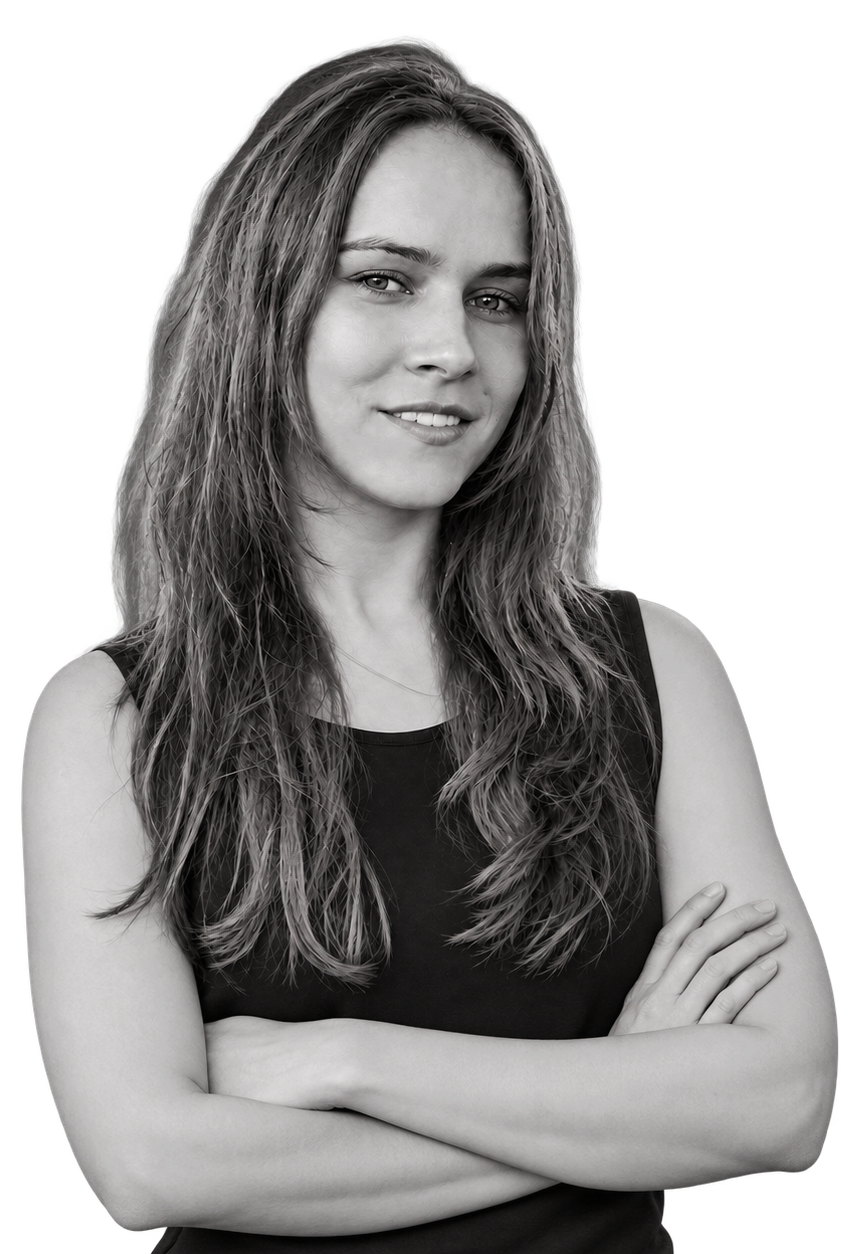
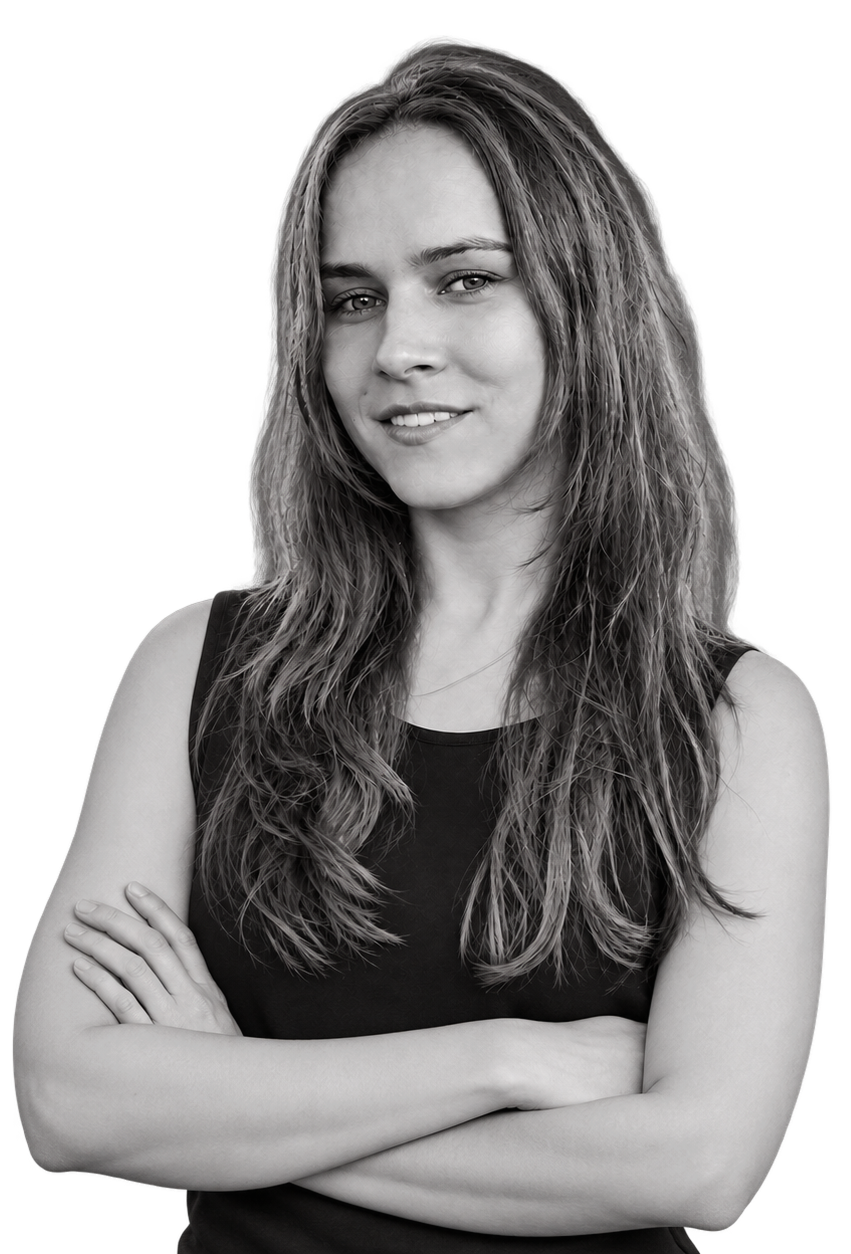
Align updated hero portrait

diff --git a/fixes.css b/fixes.css
@@ -20,8 +20,8 @@
 .hero__eyebrow { margin: 0 0 18px; color: var(--muted); font-size: 15px; font-weight: 500; line-height: 1.35; }
 .hero h1 { max-width: 880px; font-size: clamp(58px, 7vw, 104px); line-height: .9; letter-spacing: -.065em; }
 .hero p:not(.hero__eyebrow) { max-width: 500px; margin-top: 30px; font-size: 19px; line-height: 1.4; }
-.hero__portrait { position: relative; z-index: 1; display: grid; min-height: 470px; margin-left: -112px; place-items: end end; overflow: hidden; background: transparent; }
-.portrait { width: min(100%, 450px); height: 470px; object-fit: contain; object-position: center bottom; }
+.hero__portrait { position: relative; z-index: 1; display: grid; width: min(100%, 440px); margin-left: 0; justify-self: end; place-items: end; overflow: hidden; background: transparent; }
+.portrait { display: block; width: 100%; height: auto; object-fit: contain; object-position: center bottom; }
 .section { padding-block: 88px; }
 .section h2 { margin-bottom: 30px; }
 .rule { display: none; }
@@ -96,8 +96,8 @@
   .hero__copy { padding-bottom: 0; }
   .hero h1 { font-size: clamp(42px, 12vw, 58px); }
   .hero p:not(.hero__eyebrow) { margin-top: 22px; font-size: 18px; }
-  .hero__portrait { width: 100%; min-height: 370px; margin-left: 0; place-items: end center; background: transparent; }
-  .portrait { width: min(100%, 380px); height: 370px; }
+  .hero__portrait { width: 100%; margin-left: 0; place-items: end center; background: transparent; }
+  .portrait { width: min(100%, 380px); height: auto; }
   .section { padding-block: 58px; }
   .section h2 { margin-bottom: 24px; }
   .service-grid { grid-template-columns: 1fr; gap: 12px; }

diff --git a/index.html b/index.html
@@ -10,7 +10,7 @@
     <link rel="preconnect" href="https://fonts.gstatic.com" crossorigin />
     <link href="https://fonts.googleapis.com/css2?family=DM+Sans:wght@400;500;700&display=swap" rel="stylesheet" />
     <link rel="stylesheet" href="styles.css" />
-    <link rel="stylesheet" href="fixes.css?v=39" />
+    <link rel="stylesheet" href="fixes.css?v=40" />
   </head>
   <body>
     <header class="site-header">
@@ -25,7 +25,7 @@
     <main id="top">
       <section class="shell hero">
         <div class="hero__copy"><h1>Дизайнер<br />образовательных материалов</h1><p>Создаю презентации, учебные материалы, карточки услуг и сайты-портфолио для экспертов, преподавателей и образовательных проектов.</p></div>
-        <div class="hero__portrait"><img class="portrait" src="public/assets/photo_portfolio.png?v=2" alt="Анастасия Велюга" /></div>
+        <div class="hero__portrait"><img class="portrait" src="public/assets/photo_portfolio.png?v=3" alt="Анастасия Велюга" /></div>
       </section>
 
       <section class="shell section" id="services">
